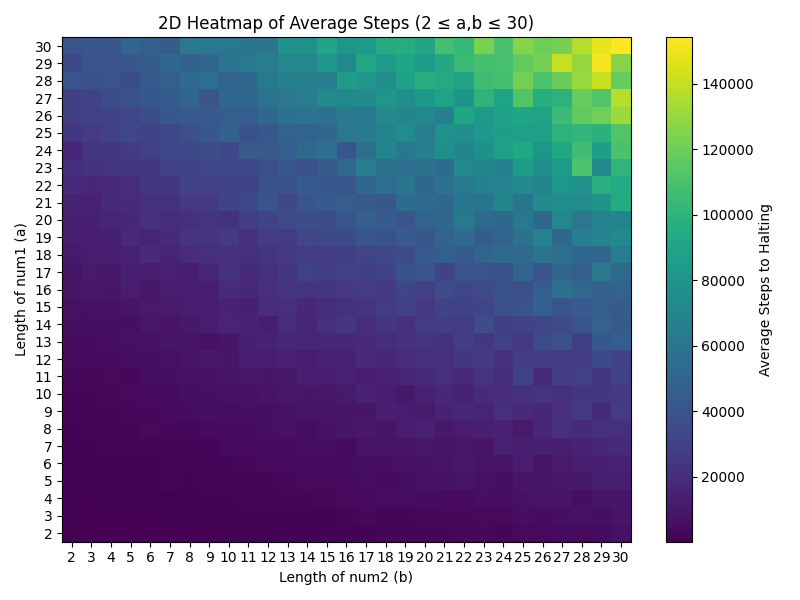
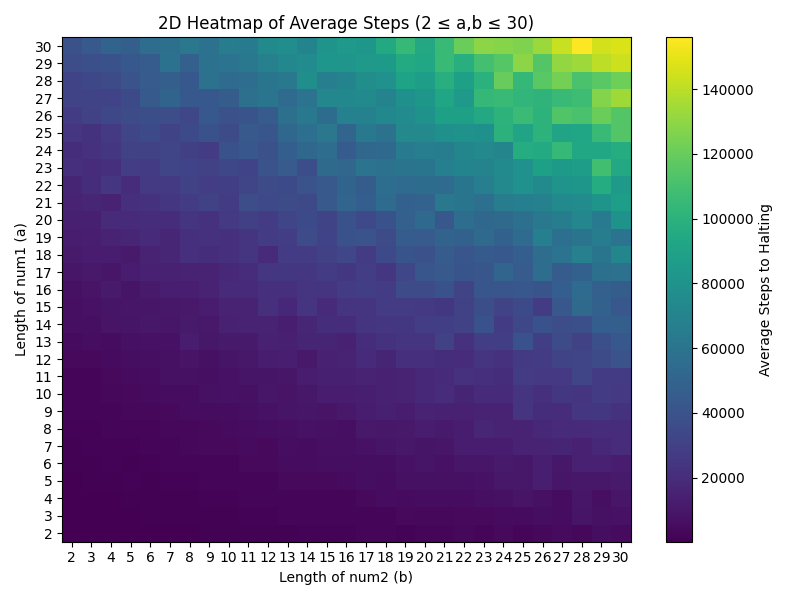
phase_transition_diagram

diff --git a/b.py b/b.py
@@ -25,5 +25,6 @@ def generate_and_save_tape(num1, num2, blanks, filename):
 if __name__ == "__main__":
     # This will generate a tape for num1=1011 and num2=100 with 6 blanks each side
     # and append it to "tapes.dat", then print the tape.
-    result_tape = generate_and_save_tape("1011", "100", 6, "example_initial_tape.dat")
+    result_tape = generate_and_save_tape("101001010111", "101000101", 6, "example_initial_tape.dat")
+    result_tape = generate_and_save_tape("101111", "101001", 6, "example_initial_tape.dat")
     print("Generated tape:", result_tape)

diff --git a/a.py b/a.py
@@ -64,8 +64,6 @@ tm_code = """
 92 * * l 92
 
 ; Set up tally
-0 * * l 1
-1 B B l 2
 2 B 0 r 3
 3 B B r 10
 
